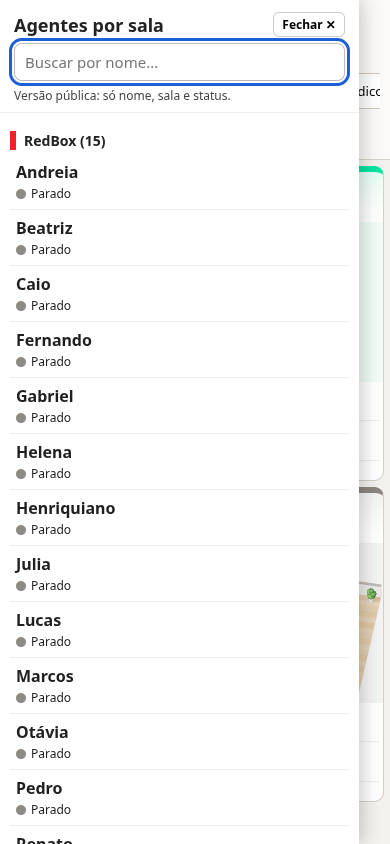
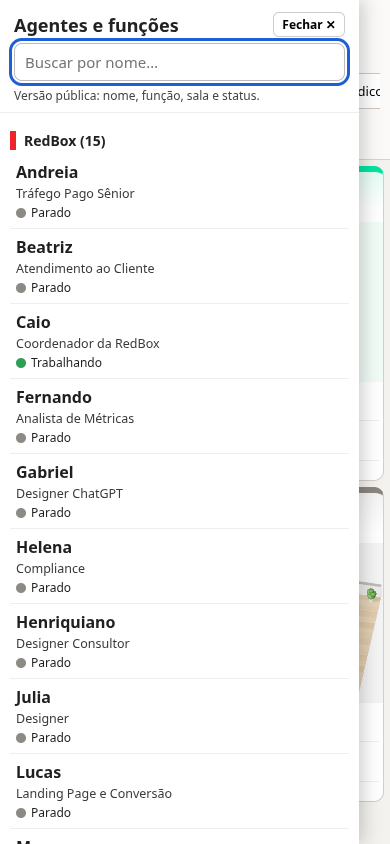
PC: painel lateral fixo à direita com agentes, função e status; corrige cache (versão nos assets); função pública curta

diff --git a/prototipo-fullhd/src/cena.js b/prototipo-fullhd/src/cena.js
@@ -4,7 +4,7 @@ import * as THREE from "three";
 import { GLTFLoader } from "three/addons/loaders/GLTFLoader.js";
 import * as SkeletonUtils from "three/addons/utils/SkeletonUtils.js";
 import { RoomEnvironment } from "three/addons/RoomEnvironment.js";
-import { criarFonte, carregarPrivado } from "./fonte.js";
+import { criarFonte, carregarPrivado } from "./fonte.js?v=6";
 
 const params = new URLSearchParams(location.search);
 const BASE = new URL("../", import.meta.url); // pasta prototipo-fullhd/, funciona de qualquer página que importe este módulo
@@ -237,8 +237,8 @@ async function abrirPainel(sel) {
   const pessoas = listaAtual.filter(a => a.sala === sel.sala && (!sel.nome || a.nome === sel.nome));
   const h = document.createElement("div");
   const tit = document.createElement("h2"); tit.textContent = sel.nome ? sel.nome : sel.sala; h.append(tit);
-  const sub = document.createElement("p"); sub.className = "sub"; sub.textContent = sel.nome ? `Sala ${sel.sala}` : `${pessoas.length} agente(s)`; h.append(sub);
-  if (!privado) { const p = document.createElement("p"); p.className = "nota"; p.textContent = "Versão pública: só nome, sala e status. Projeto e tarefa aparecem apenas no modo privado local."; h.append(p); }
+  const sub = document.createElement("p"); sub.className = "sub"; sub.textContent = sel.nome ? `${pessoas[0]?.funcao ? pessoas[0].funcao + " · " : ""}Sala ${sel.sala}` : `${pessoas.length} agente(s)`; h.append(sub);
+  if (!privado) { const p = document.createElement("p"); p.className = "nota"; p.textContent = "Versão pública: nome, função, sala e status. Projeto e tarefa aparecem apenas no modo privado local."; h.append(p); }
   else if (!dadosPriv) { const p = document.createElement("p"); p.className = "nota"; p.textContent = "Modo privado indisponível aqui (o arquivo privado só é servido pelo servidor local)."; h.append(p); }
   const ul = document.createElement("ul");
   for (const a of pessoas) {
@@ -272,6 +272,7 @@ function enquadrar() {
 }
 let eraCel = celular();
 addEventListener("resize", () => { if (vista === "lista") { desenharLista(); return; } if (celular() !== eraCel) { eraCel = celular(); if (eraCel && foco === "todas") foco = null; agentes.clear(); montar(listaAtual); return; } enquadrar(); });
+new ResizeObserver(() => { if (vista !== "lista" && !modoQuad()) enquadrar(); }).observe(palco);
 const toques = new Map(); let arr = null;
 r.domElement.addEventListener("pointerdown", e => { toques.set(e.pointerId, e); arr = { x: e.clientX, y: e.clientY }; r.domElement.setPointerCapture(e.pointerId); });
 r.domElement.addEventListener("pointermove", e => {
@@ -453,29 +454,38 @@ async function desenharMenu() {
       const li = document.createElement("li"); const b = document.createElement("button"); b.type = "button"; b.className = "m-pessoa";
       const n = document.createElement("span"); n.className = "m-nome"; n.textContent = a.nome;
       const st = document.createElement("span"); st.className = "m-st"; const i = document.createElement("i"); i.className = "b " + a.status; i.setAttribute("aria-hidden", "true"); st.append(i, document.createTextNode(ROT_ST[a.status]));
-      b.append(n, st); let rotulo = `${a.nome}, sala ${a.sala}, ${ROT_ST[a.status]}`;
+      b.append(n); let rotulo = `${a.nome}, sala ${a.sala}`;
+      { const fp = document.createElement("span"); fp.className = "m-fun"; fp.textContent = a.funcao || "função não informada"; b.append(fp); rotulo += `, ${fp.textContent}`; }
+      b.append(st); rotulo += `, ${ROT_ST[a.status]}`;
       if (privado && dadosPriv) { // função e tarefa SÓ no modo privado local
         const pv = priv.get(a.sala + "|" + a.nome);
-        const fn = document.createElement("span"); fn.className = "m-det"; fn.textContent = "Função: " + (pv?.funcao || "sem função registrada");
         const tf = document.createElement("span"); tf.className = "m-det"; const tar = semInfo(pv?.tarefa) ? "sem tarefa registrada" : pv.tarefa, prj = semInfo(pv?.projeto) ? "" : ` (${pv.projeto})`;
-        tf.textContent = "Fazendo: " + tar + prj; b.append(fn, tf); rotulo += `. ${fn.textContent}. ${tf.textContent}`;
+        tf.textContent = "Fazendo: " + tar + prj; b.append(tf); rotulo += `. ${tf.textContent}`;
       }
-      b.setAttribute("aria-label", rotulo); b.onclick = () => { fecharMenu(false); abrirPainel({ sala: a.sala, nome: a.nome }); };
+      b.setAttribute("aria-label", rotulo); b.onclick = () => { if (celular()) fecharMenu(false); destacar(a); abrirPainel({ sala: a.sala, nome: a.nome }); };
       li.append(b); ul.append(li);
     }
     sec.append(ul); frag.append(sec);
   }
   if (!total) { const p = document.createElement("p"); p.className = "nota"; p.textContent = "Nenhum agente com esse nome."; frag.append(p); }
   lista.replaceChildren(frag);
-  document.getElementById("menu-nota").textContent = privado ? (dadosPriv ? "Modo privado local: função (título do perfil) e tarefa registrada pelo próprio agente." : "Modo privado indisponível aqui.") : "Versão pública: só nome, sala e status.";
+  document.getElementById("menu-nota").textContent = privado ? (dadosPriv ? "Modo privado local: função (título do perfil) e tarefa registrada pelo próprio agente." : "Modo privado indisponível aqui.") : "Versão pública: nome, função, sala e status.";
 }
-function abrirMenu() { menu.hidden = false; menu.classList.add("aberto"); btnMenu.setAttribute("aria-expanded", "true"); desenharMenu(); document.getElementById("menu-busca").focus(); }
+function destacar(a) { // PC: realça a pessoa na cena (rótulo pulsando)
+  const ag = agentes.get(a.sala + "|" + a.nome); if (!ag) return;
+  for (const x of agentes.values()) x.rot.classList.remove("destaque");
+  ag.rot.classList.add("destaque"); clearTimeout(destacar.t); destacar.t = setTimeout(() => ag.rot.classList.remove("destaque"), 6000);
+}
+function modoDialogo() { // celular: menu sobreposto (diálogo modal); PC: painel lateral fixo à direita que encolhe a cena
+  if (celular()) { menu.setAttribute("role", "dialog"); menu.setAttribute("aria-modal", "true"); } else { menu.setAttribute("role", "complementary"); menu.removeAttribute("aria-modal"); }
+}
+function abrirMenu() { modoDialogo(); menu.hidden = false; menu.classList.add("aberto"); btnMenu.setAttribute("aria-expanded", "true"); desenharMenu(); document.getElementById("menu-busca").focus(); }
 function fecharMenu(devolverFoco = true) { menu.hidden = true; menu.classList.remove("aberto"); btnMenu.setAttribute("aria-expanded", "false"); if (devolverFoco) btnMenu.focus(); }
 btnMenu.onclick = () => menu.hidden ? abrirMenu() : fecharMenu();
 document.getElementById("menu-fechar").onclick = () => fecharMenu();
 document.getElementById("menu-busca").addEventListener("input", e => { menuFiltro = e.target.value; desenharMenu(); });
-menu.addEventListener("keydown", e => { // mantém o foco dentro do menu
-  if (e.key !== "Tab") return; const f = [...menu.querySelectorAll("button,input")].filter(x => x.offsetParent); if (!f.length) return;
+menu.addEventListener("keydown", e => { // mantém o foco dentro do menu (só no celular, onde ele é modal)
+  if (e.key !== "Tab" || !celular()) return; const f = [...menu.querySelectorAll("button,input")].filter(x => x.offsetParent); if (!f.length) return;
   if (e.shiftKey && document.activeElement === f[0]) { e.preventDefault(); f.at(-1).focus(); } else if (!e.shiftKey && document.activeElement === f.at(-1)) { e.preventDefault(); f[0].focus(); } });
 
 // ---------- quadrante expandido (celular): ?sala=X, Voltar, Esc e voltar do navegador ----------
@@ -490,7 +500,7 @@ function trocarSala(id) { const u = new URL(location.href); if (id) u.searchPara
 addEventListener("popstate", () => { const id = new URLSearchParams(location.search).get("sala"); if (vista !== "lista") return; if (id && salas.has(id)) { foco = id; criarAbas(); desenharLista(); } else voltarQuadrantes(true); });
 addEventListener("keydown", e => {
   if (e.key !== "Escape") return;
-  if (!menu.hidden) { fecharMenu(); return; }
+  if (!menu.hidden && (celular() || menu.contains(document.activeElement))) { fecharMenu(); return; }
   if (!painel.hidden) { painel.hidden = true; painelAberto = null; return; }
   if (modoQuad() && foco !== "todas") voltarQuadrantes(false);
 });

diff --git a/index.html b/index.html
@@ -2,7 +2,7 @@
 <html lang="pt-BR"><head><meta charset="utf-8">
 <meta name="viewport" content="width=device-width,initial-scale=1,viewport-fit=cover">
 <title>Escritório Virtual — protótipo Full HD</title>
-<link rel="stylesheet" href="prototipo-fullhd/src/estilo.css">
+<link rel="stylesheet" href="prototipo-fullhd/src/estilo.css?v=6">
 <script type="importmap">{"imports":{"three":"./vendor/three.module.min.js","three/addons/":"./prototipo-fullhd/vendor/addons/"}}</script>
 </head><body>
 <header>
@@ -20,13 +20,14 @@
   <div id="rotulos"></div>
   <p id="carregando">Carregando cena 3D…</p>
 </main>
-<aside id="painel" hidden aria-live="polite"></aside></div>
+<aside id="painel" hidden aria-live="polite"></aside>
 <aside id="menu" role="dialog" aria-modal="true" aria-labelledby="menu-tit" hidden>
-  <div class="m-topo"><h2 id="menu-tit">Agentes por sala <button type="button" id="menu-fechar" class="fechar" aria-label="Fechar menu">Fechar ✕</button></h2>
+  <div class="m-topo"><h2 id="menu-tit">Agentes e funções <button type="button" id="menu-fechar" class="fechar" aria-label="Fechar menu">Fechar ✕</button></h2>
     <label class="sr" for="menu-busca">Buscar agente por nome</label><input id="menu-busca" type="search" placeholder="Buscar por nome…" autocomplete="off">
     <p class="nota" id="menu-nota"></p></div>
   <div id="menu-lista"></div>
 </aside>
+</div>
 <ul id="lista" class="sr"></ul>
-<script type="module" src="prototipo-fullhd/src/cena.js"></script>
+<script type="module" src="prototipo-fullhd/src/cena.js?v=6"></script>
 </body></html>

diff --git a/prototipo-fullhd/index.html b/prototipo-fullhd/index.html
@@ -2,7 +2,7 @@
 <html lang="pt-BR"><head><meta charset="utf-8">
 <meta name="viewport" content="width=device-width,initial-scale=1,viewport-fit=cover">
 <title>Escritório Virtual — protótipo Full HD</title>
-<link rel="stylesheet" href="src/estilo.css">
+<link rel="stylesheet" href="src/estilo.css?v=6">
 <script type="importmap">{"imports":{"three":"../vendor/three.module.min.js","three/addons/":"./vendor/addons/"}}</script>
 </head><body>
 <header>
@@ -20,13 +20,14 @@
   <div id="rotulos"></div>
   <p id="carregando">Carregando cena 3D…</p>
 </main>
-<aside id="painel" hidden aria-live="polite"></aside></div>
+<aside id="painel" hidden aria-live="polite"></aside>
 <aside id="menu" role="dialog" aria-modal="true" aria-labelledby="menu-tit" hidden>
-  <div class="m-topo"><h2 id="menu-tit">Agentes por sala <button type="button" id="menu-fechar" class="fechar" aria-label="Fechar menu">Fechar ✕</button></h2>
+  <div class="m-topo"><h2 id="menu-tit">Agentes e funções <button type="button" id="menu-fechar" class="fechar" aria-label="Fechar menu">Fechar ✕</button></h2>
     <label class="sr" for="menu-busca">Buscar agente por nome</label><input id="menu-busca" type="search" placeholder="Buscar por nome…" autocomplete="off">
     <p class="nota" id="menu-nota"></p></div>
   <div id="menu-lista"></div>
 </aside>
+</div>
 <ul id="lista" class="sr"></ul>
-<script type="module" src="src/cena.js"></script>
+<script type="module" src="src/cena.js?v=6"></script>
 </body></html>

diff --git a/prototipo-fullhd/src/estilo.css b/prototipo-fullhd/src/estilo.css
@@ -115,3 +115,15 @@ header{position:sticky;top:0}
 .m-nome{font-weight:700}.m-st{font-size:12px;display:flex;align-items:center;gap:5px}.m-st .b{margin:0}
 .m-det{font-size:12px;color:#333}
 .m-pessoa:focus-visible,.btn-menu:focus-visible,#menu input:focus-visible,#menu-fechar:focus-visible{outline:3px solid #1d5fd6;outline-offset:2px}
+
+/* PC: painel lateral de agentes fixo à direita, ocupa a altura toda e encolhe a cena (não cobre) */
+.m-fun{font-size:12.5px;color:#3a3a3a}
+@media (min-width:769px){
+  #menu{position:static;order:3;width:360px;flex:0 0 360px;height:auto;box-shadow:none;border-left:1px solid #ddd5ca;z-index:auto}
+  #menu.aberto{animation:m-entra-dir .2s ease-out}
+  #painel{order:2}
+}
+@keyframes m-entra-dir{from{opacity:0;transform:translateX(24px)}to{opacity:1;transform:none}}
+button.rot.destaque{outline:3px solid #1d5fd6;outline-offset:2px;transform:translate(-50%,-100%) scale(1.25);visibility:visible!important;opacity:1!important;z-index:5;animation:pulsa 1s ease-in-out 3}
+@keyframes pulsa{50%{box-shadow:0 0 0 6px #1d5fd655}}
+@media (prefers-reduced-motion:reduce){button.rot.destaque{animation:none}}

diff --git a/prototipo-fullhd/src/fonte.js b/prototipo-fullhd/src/fonte.js
@@ -1,12 +1,14 @@
 // Fontes de status do protótipo. Contrato de entrada: {nome, sala, status} — só esses 3 campos são usados.
 const NOME_OK = /^[A-Za-zÀ-ÿ' .-]{1,60}$/;
+const FUNCAO_OK = /^[0-9A-Za-zÀ-ÿ' .,&/-]{1,40}$/;
 const TESTES = ["trabalhando", "parado", "esperando", "misto"]; // lista fechada (sem URL livre)
 
 export function validar(lista, cfg) {
   const salas = new Set(cfg.salas.map(s => s.nome)), st = new Set(cfg.status), out = [];
   for (const a of Array.isArray(lista) ? lista : []) {
     if (!a || typeof a.nome !== "string" || !NOME_OK.test(a.nome) || !salas.has(a.sala)) continue;
-    out.push({ nome: a.nome.trim(), sala: a.sala, status: st.has(a.status) ? a.status : "parado" });
+    const funcao = typeof a.funcao === "string" && FUNCAO_OK.test(a.funcao) ? a.funcao.trim() : "";
+    out.push({ nome: a.nome.trim(), sala: a.sala, status: st.has(a.status) ? a.status : "parado", funcao });
   }
   return out;
 }

diff --git a/scripts/gerar-status.py b/scripts/gerar-status.py
@@ -1,8 +1,8 @@
 #!/usr/bin/env python3
 """Junta os arquivos de status (um por agente) num status.json público.
 
-Entrada: PASTA/<qualquer-nome>.json com EXATAMENTE {"nome": str, "sala": str, "status": str}
-Saída:   {"agentes": [{"nome","sala","status"}, ...]}  — nada além disso.
+Entrada: PASTA/<qualquer-nome>.json com EXATAMENTE {"nome", "sala", "status"} e, opcional, "funcao" (texto curto)
+Saída:   {"agentes": [{"nome","sala","status"[,"funcao"]}, ...]}  — nada além disso.
 Regra:   arquivo sem atualização (mtime) há mais de LIMITE minutos => status "parado".
 Uso:     python3 scripts/gerar-status.py [--pasta DIR] [--saida ARQ] [--limite-min 10]
          (variáveis: EV_STATUS_DIR, EV_SAIDA, EV_LIMITE_MIN)
@@ -11,6 +11,7 @@ import argparse, json, os, re, sys, time, tempfile
 
 SALAS = {"RedBox", "Vértice", "Restaurantes", "Jurídico", "Domma"}
 STATUS = {"trabalhando", "parado", "esperando"}
+FUNCAO_OK = re.compile(r"^[0-9A-Za-zÀ-ÿ' .,&/-]{1,40}$")  # função curta (trecho do nome após "·"), nunca a description
 NOME_OK = re.compile(r"^[A-Za-zÀ-ÿ' .-]{1,60}$")  # só letras/espaços: impede vazar tokens, e-mails, URLs
 MAX_BYTES = 1024
 
@@ -22,11 +23,15 @@ def ler(caminho, limite_s, agora):
         d = json.load(open(caminho, encoding="utf-8"))
     except (ValueError, OSError):
         return None
-    if not isinstance(d, dict) or set(d) != {"nome", "sala", "status"}: return None  # campo extra => rejeita
+    if not isinstance(d, dict) or set(d) - {"funcao"} != {"nome", "sala", "status"}: return None  # campo extra => rejeita
+    funcao = d.get("funcao")
+    if funcao is not None and not (isinstance(funcao, str) and FUNCAO_OK.match(funcao)): return None
     nome, sala, status = d["nome"], d["sala"], d["status"]
     if not (isinstance(nome, str) and NOME_OK.match(nome) and sala in SALAS and status in STATUS): return None
     if agora - st.st_mtime > limite_s: status = "parado"
-    return {"nome": nome.strip(), "sala": sala, "status": status}
+    out = {"nome": nome.strip(), "sala": sala, "status": status}
+    if funcao: out["funcao"] = funcao.strip()
+    return out
 
 def main():
     ap = argparse.ArgumentParser()

diff --git a/docs/adr/0010-modo-privado-projeto-e-tarefa.md b/docs/adr/0010-modo-privado-projeto-e-tarefa.md
@@ -16,3 +16,8 @@ O Otávio quer um painel lateral com o projeto e a tarefa de cada agente, aberto
 - Botão fixo **☰ Agentes** (celular e computador) abre um menu lateral (`role=dialog`, foco preso, Esc fecha e devolve o foco ao botão) com todos os agentes agrupados por sala e busca por nome.
 - Público: só nome, sala e status. `?modo=privado` (servidor local): também **Função** = campo `title` do `profile.json` (nunca a `description`; hoje os 81 perfis têm `title` vazio, então aparece "sem função registrada") e **Fazendo** = tarefa/projeto do `registrar.sh` ("sem tarefa registrada" quando não houver).
 - Celular: tocar num quadrante (fora de uma pessoa) expande a sala em tela cheia (mini-cena maior + lista embaixo) com botão "Voltar aos quadrantes"; usa `?sala=X` com `history.pushState`, então Esc e o voltar do navegador fecham. Animação de 0,28 s, desligada com `prefers-reduced-motion`. Tocar numa pessoa continua abrindo o painel.
+
+## Adendo 2 (01/11/2026): painel lateral no PC e função pública
+- **Botões no PC:** "Ver lista" e "☰ Agentes" funcionavam no navegador sem tela (link real e local, cliques reais com o mouse; nada por cima, `elementFromPoint` = o próprio botão). A captura do Otávio mostrava o CSS antigo (botões sem estilo), então a causa provável é **cache do navegador**: o GitHub Pages manda `max-age=600`, e o `index.html` novo carregava `estilo.css`/`cena.js` antigos, que não têm o menu. Correção: versão nos endereços (`estilo.css?v=6`, `cena.js?v=6`, `fonte.js?v=6`), a mudar a cada publicação.
+- **PC (> 768px):** "☰ Agentes" abre um **painel fixo à direita**, na altura toda, que **encolhe a cena** (sem cobrir). Um `ResizeObserver` reenquadra a câmera. Lista por sala com nome, **função** e status, com busca. Clicar num nome realça a pessoa na cena (rótulo pulsando por 6 s) e abre o painel dela. No PC o painel não é modal: Esc fecha só com o foco dentro dele. No celular continua um diálogo sobreposto.
+- **Função pública (decisão do Otávio):** campo opcional `funcao` no `status.json` = trecho do `name` do perfil depois do primeiro "·" (ex.: "Programador Escritório Virtual"). Só texto curto (até 40 caracteres, letras/números/pontuação simples), **nunca a description**. Um trecho longo ou estranho é descartado. `escrever-status.sh` aceita a função como 4º argumento opcional e `gerar-status.py` valida o campo. Tarefa e projeto continuam só no modo privado.

diff --git a/docs/especificacao/visual-fullhd.md b/docs/especificacao/visual-fullhd.md
@@ -21,7 +21,7 @@ As trocas de status tocam a transição real do clipe (sentar ou levantar, cerca
 - Cores das salas vêm dos logotipos reais; sem logotipo ou cores parecidas (distância < 25 em Lab), a sala usa cor neutra.
 
 ## Requisitos (atendidos no protótipo)
-- O contrato de entrada continua `{nome, sala, status}`. Campos a mais são descartados no navegador.
+- O contrato de entrada continua `{nome, sala, status[, funcao]}`. Campos a mais são descartados no navegador.
 - O padrão é o status real em `publico/status.json`; `?fonte=exemplo` usa `dados/exemplo.json`. `?teste=trabalhando|parado|esperando|misto` lê arquivos de teste locais de uma lista fechada.
 - O layout vem de `prototipo-fullhd/config/escritorio.json`: salas, cores, colunas, áreas extras e regras do celular. Há uma mesa por agente.
 - Os rótulos são HTML, presos às bordas da tela, e não se sobrepõem: em colisão sobem ou são ocultados (o nome segue na lista e no painel). Também são clicáveis.
@@ -56,3 +56,6 @@ Medições da versão celular com mini-cenas: ver ADR-0011.
 - Ter mais de um modelo de pessoa CC0 para dar variedade.
 - Medir desempenho num PC com GPU.
 - Sobreposição de rótulos em salas cheias no celular.
+
+## Painel lateral no PC e função pública (01/11/2026)
+Ver ADR-0010, adendo 2. Público: nome, sala, status e função curta (trecho do nome após "·"). Tarefa/projeto: só no modo privado.
